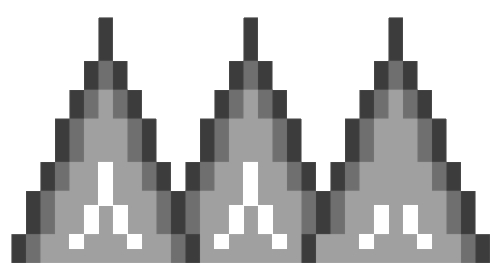
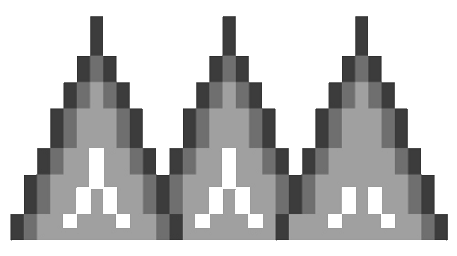
added obstacles
added obstacles

diff --git a/Assets/Scripts/ObstacleController.cs b/Assets/Scripts/ObstacleController.cs
@@ -8,7 +8,7 @@ public class ObstacleController : MonoBehaviour
     public GameObject obstacleBody;
 
     // private GameObject cloneExplosive;
-    float enemySpeed = -3;
+    float enemySpeed = 2;
     private float timeLeft;
     private float velocityEnemy;
     private float playerPosx;
@@ -31,14 +31,11 @@ public class ObstacleController : MonoBehaviour
             Destroy(gameObject);
 
         }
+        transform.position = transform.position + -transform.right * Time.deltaTime * enemySpeed;
+
 
     }
 
-    private void FixedUpdate()
-    {
-        GetComponent<Rigidbody2D>().velocity = new Vector2(enemySpeed, 0);
-
-    }
 
     void OnTriggerEnter2D(Collider2D collision)
     {

diff --git a/Assets/Scripts/ObstacleSpawner.cs b/Assets/Scripts/ObstacleSpawner.cs
@@ -42,8 +42,12 @@ public class ObstacleSpawner : MonoBehaviour
 
     void spawnEnemy()
     {
-        obstacleClone = Instantiate(obstaclePrefab, new Vector2(10.0f,-2.4f), Quaternion.identity);
+        //obstacleClone = Instantiate(obstaclePrefab, new Vector2(10.0f,-2.4f), Quaternion.identity);
 
+        MapGen mapgener = GetComponent<MapGen>();
+        int ChunkToRemove = Random.Range(18, mapgener.chunks.Count);
+        Vector3 newPos = mapgener.chunks[ChunkToRemove].GetComponent<WorldChunk>().topTile.position + new Vector3(0, 0.9f, 0);
+        obstacleClone = Instantiate(obstaclePrefab, newPos, Quaternion.identity);
     }
 
 }
